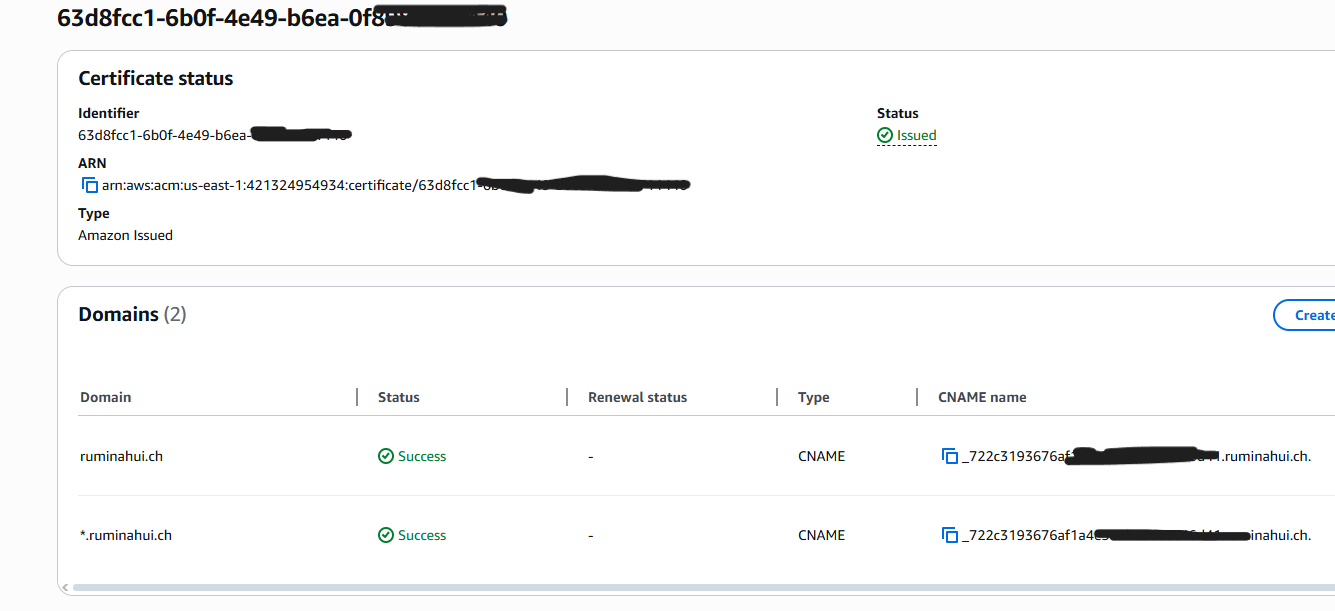
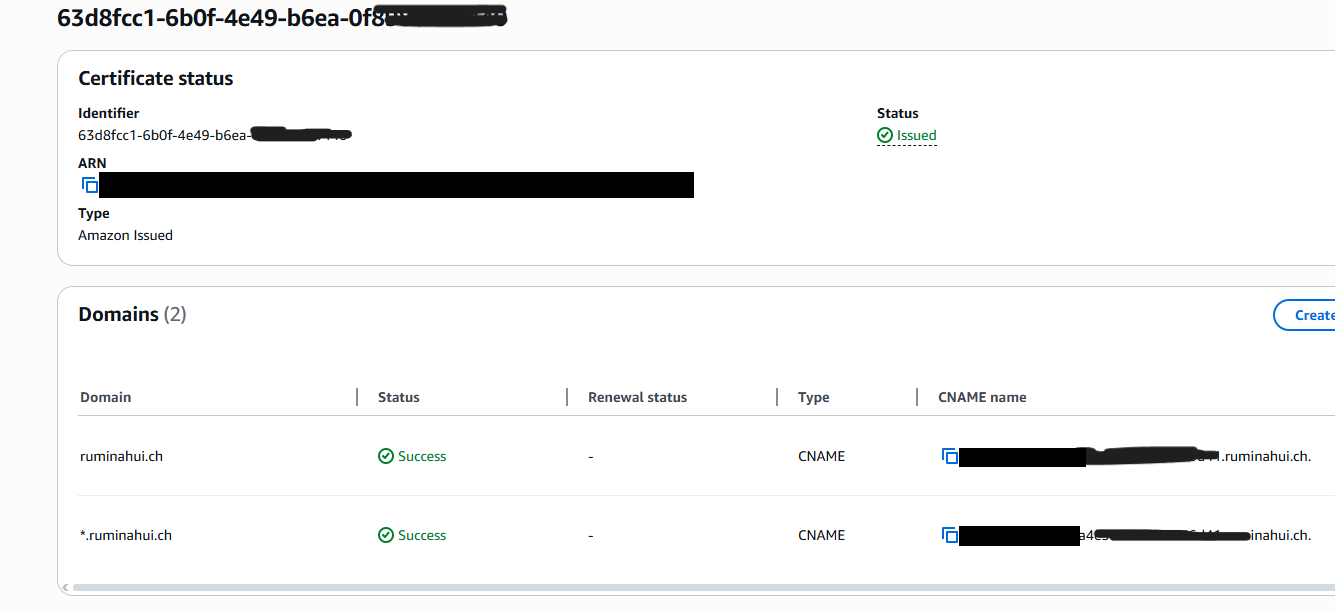
Hinweise ergänzt, Screenshots geschwärzt
- Hinweis: Jira-Links waren für die Lehrpersonen, nicht öffentlich
- MVP-Link als nicht mehr online markiert
- AWS-Konto-ID im Zertifikats-ARN und Browser-Lesezeichen geschwärzt

Claude-Session: https://claude.ai/code/session_01BCKh7LU7b8i5P7bd4WKFJJ

Changed region(s): [[0.0614, 0.2799, 0.5221, 0.3421], [0.7064, 0.8396, 0.8292, 0.9018], [0.7064, 0.7152, 0.8292, 0.7774]]

diff --git a/docs/documents/01_Projektmanagement/index.md b/docs/documents/01_Projektmanagement/index.md
@@ -360,7 +360,7 @@ In diesem Sprint ging es darum ein MVP zu erstellen. Dafür hatte ich geplant ei
 
 #### DEMO - SCRUM-18 & SCRUM-19
 
-In dieser kurzen Demo zeige ich die Live-Seite die aus dem bearbeitetem Template erstellt wird. Dies stellt den MVP dar. Das Endprodukt wird ähnlich aussehen, nur anders gehostet werden. Ihr könnt auch die Live-Seite selbst auschecken unter [https://ruminahuim.github.io/portfolio/](https://ruminahuim.github.io/portfolio/).
+In dieser kurzen Demo zeige ich die Live-Seite die aus dem bearbeitetem Template erstellt wird. Dies stellt den MVP dar. Das Endprodukt wird ähnlich aussehen, nur anders gehostet werden. Ihr könnt auch die Live-Seite selbst auschecken unter `ruminahuim.github.io/portfolio/` (Hinweis November 2026: diese MVP-Seite ist nicht mehr online).
 
 <video controls playsinline preload="metadata" width="100%">
   <source src="../../resources/videos/SCRUM-59_lokaleVorschauTest.mp4" type="video/mp4">

diff --git a/docs/index.md b/docs/index.md
@@ -10,6 +10,8 @@
 
 Diese Seite ist die Dokumentation meiner 2. Semesterarbeit. Der Inhalt dieser Startseite entspricht der Projektdefinition gemäss Einreichungsformular.
 
+> **Hinweis zu den Jira-Links:** Die Links auf Jira-Tickets (rumidesigns.atlassian.net) waren für die betreuenden Lehrpersonen gedacht und sind öffentlich nicht zugänglich.
+
 ## Links
 
 | Was | Wo |
